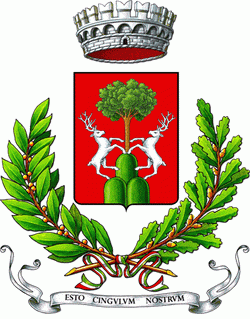
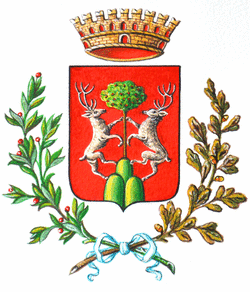
Cingoli: aggiorna link albo e stemma, corregge email nel footer
Su segnalazione dei Sistemi Informativi del Comune di Cingoli:
- link albo pretorio al portale Halley (il precedente rispondeva 404)
- stemma sostituito con la versione fornita dall'ente
- corretto info@albopo.it in info@albopop.it nel footer

Claude-Session: https://claude.ai/code/session_01KdTyzAsfbfFs56p4ULjkAF

diff --git a/layouts/partials/footer.html b/layouts/partials/footer.html
@@ -45,7 +45,7 @@
             </div>
             <div class="row">
               <nav class="navbar">
-                  <a href="mailto:info@albopo.it" class="nav-link" target="_blank">{{ readFile "static/images/icon-mail.svg" | safeHTML }}</a>
+                  <a href="mailto:info@albopop.it" class="nav-link" target="_blank">{{ readFile "static/images/icon-mail.svg" | safeHTML }}</a>
                   <a href="https://github.com/ondata/albopopTwoDotZero" class="nav-link" target="_blank">{{ readFile "static/images/icon-github.svg" | safeHTML }}</a>
                   <a href="https://www.facebook.com/groups/albopop" class="nav-link" target="_blank">{{ readFile "static/images/icon-facebook.svg" | safeHTML }}</a>
                   <a href="https://twitter.com/albopop" class="nav-link" target="_blank">{{ readFile "static/images/icon-twitter.svg" | safeHTML }}</a>

diff --git a/LOG.md b/LOG.md
@@ -1,3 +1,9 @@
+## 2026-09-10
+- Cingoli: aggiornato link albo pretorio su segnalazione del Comune (il precedente rispondeva 404)
+- Cingoli: sostituito stemma con la versione fornita dall'ente (`arms` 250px, `armsBackup` 500px)
+- Corretto `info@albopo.it` in `info@albopop.it` nel footer
+- Il feed RSS di Cingoli (ricostruzionetrasparente.it) è fermo al 19/09/2021: da decidere che farne
+
 ## 2025-12-31
 - Aggiunto comune di Terre del Reno (Ferrara, Emilia-Romagna)
 - Creato `content/comune/terre-del-reno.md` con metadati completi

diff --git a/content/comune/cingoli.md b/content/comune/cingoli.md
@@ -1,7 +1,7 @@
 ---
 title: "Cingoli"
 tags: ["rt"]
-original: http://www.comune.cingoli.mc.it/albo-pretorio/albo-pretorio-pubblicazioni-in-corso/
+original: https://cingoli.halleyegov.it/redirect.html?F=MC09
 rss: http://feeds.ricostruzionetrasparente.it/albi_pretori/Cingoli_feed.xml
 twitter: 
 facebook: 
